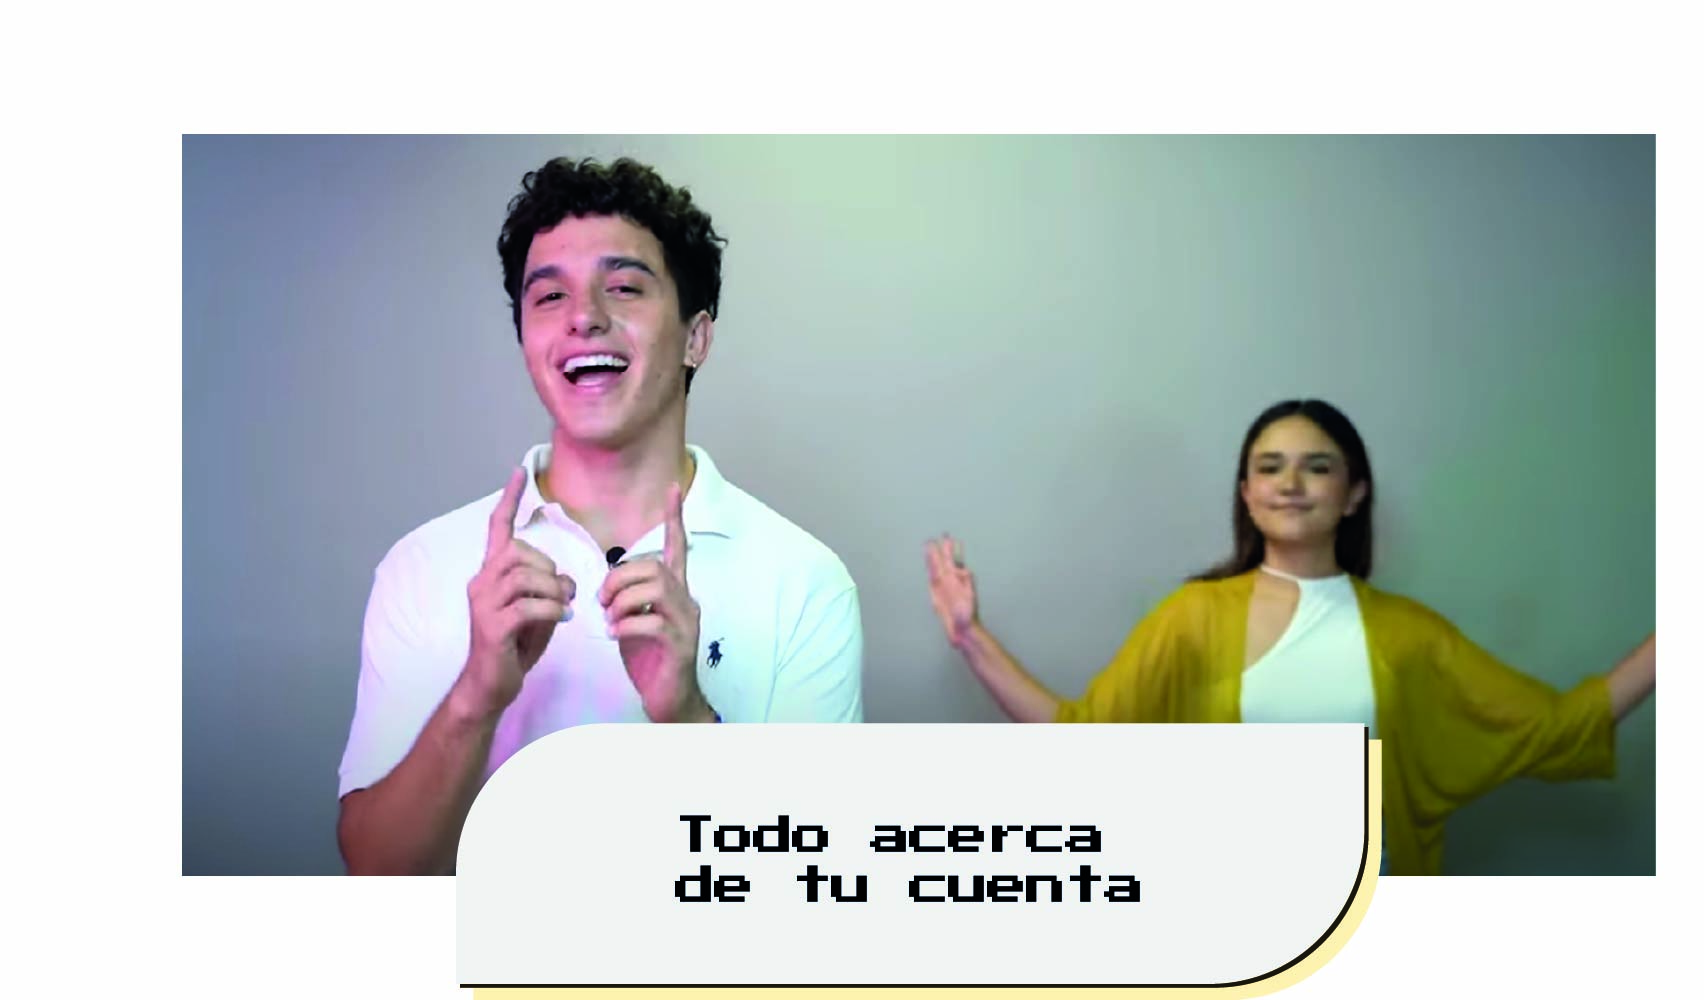
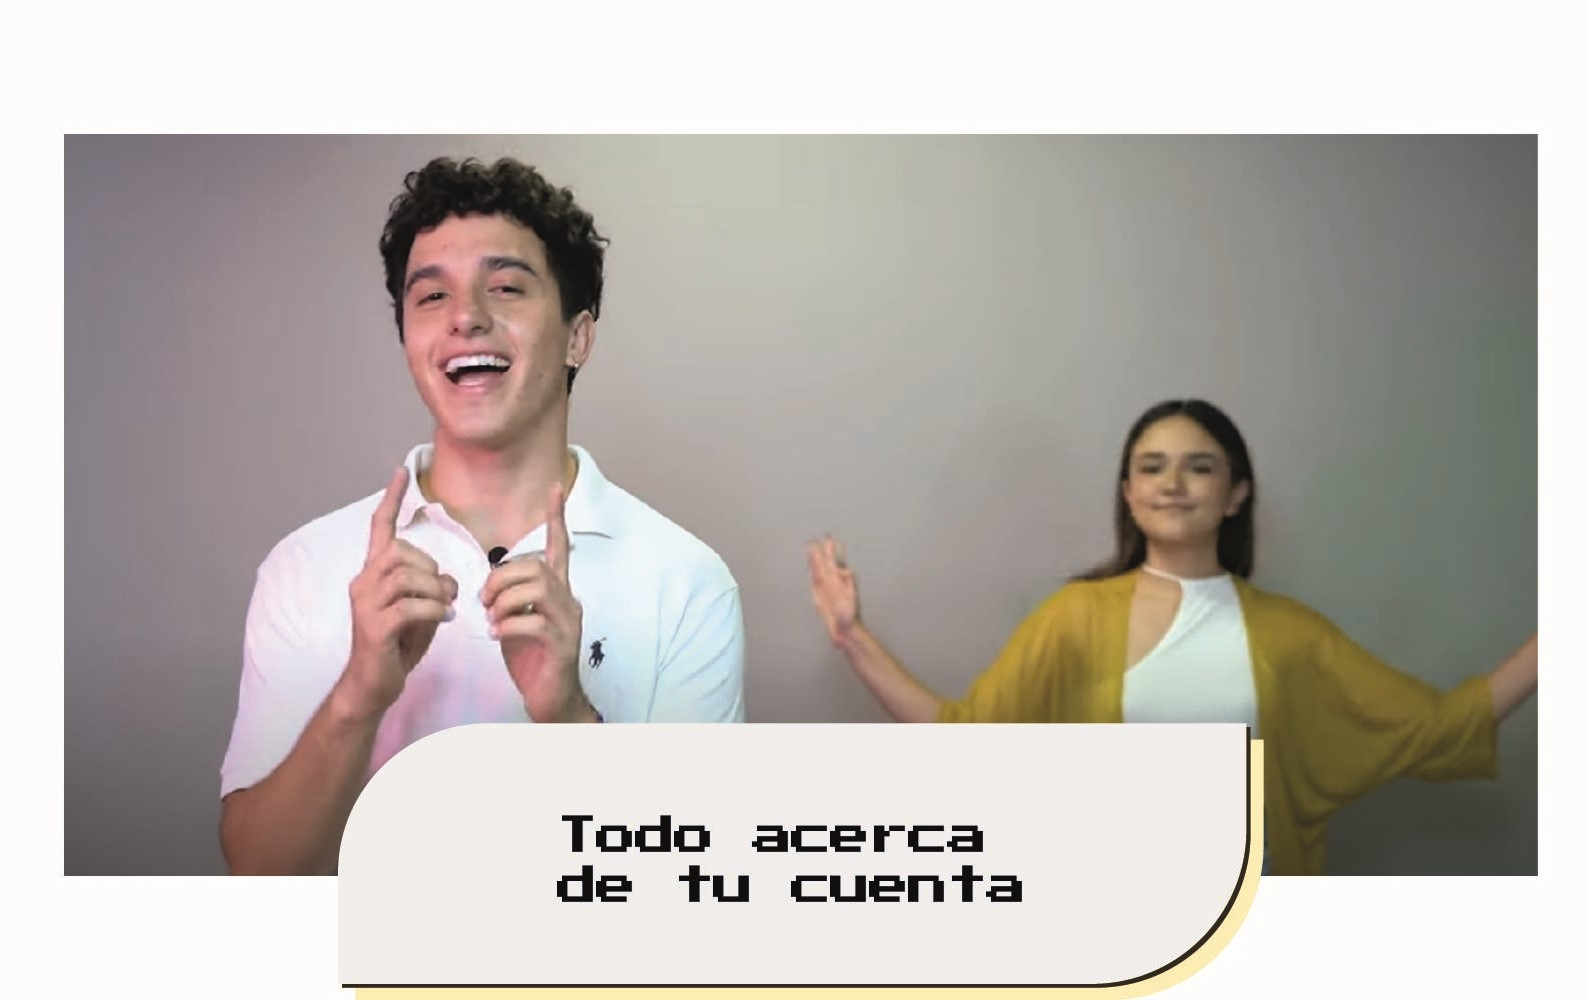
cambios visuales

diff --git a/index.html b/index.html
@@ -25,7 +25,12 @@
         </section>
 
         <section class="video-section">
-            <img class="progreso" src="videos/Bienvenida.jpg" alt="" width="100%" height="315">
+            <div class="image-container">
+                <img class="progreso" src="videos/Bienvenida.jpg" alt="Bienvenida" width="100%" height="315">
+                <div class="overlay-text-video">
+                    <h1>Mi primera banca</h1>
+                </div>
+            </div>
         </section>
 
         <section>
@@ -53,7 +58,7 @@
             </div>
             <button class="carousel-prev">&#10094;</button>
             <button class="carousel-next">&#10095;</button>
-        </section>
+        </section><br>
 
         <section class="gray-box">
             <p>Bienvenidos a nuestro blog, donde podrás compartir tus dudas o conocimientos con otras personas.<br>

diff --git a/styles.css b/styles.css
@@ -103,6 +103,31 @@ main {
     height: auto;
 }
 
+
+.image-container {
+    position: relative;
+    display: inline-block;
+    border: 10px solid white; 
+    border-radius: 8px; 
+}
+
+.progreso {
+    display: block;
+    width: 100%;
+    height: auto;
+}
+
+.overlay-text-video {
+    position: absolute;
+    bottom: 5px;
+    left: 20px;
+    color: white;
+    font-family: 'Lato', sans-serif;
+    font-size: 1.4em;
+    font-weight: bold;
+    pointer-events: none; 
+}
+
 .text-overlay {
     position: absolute;
     top: 90%;
